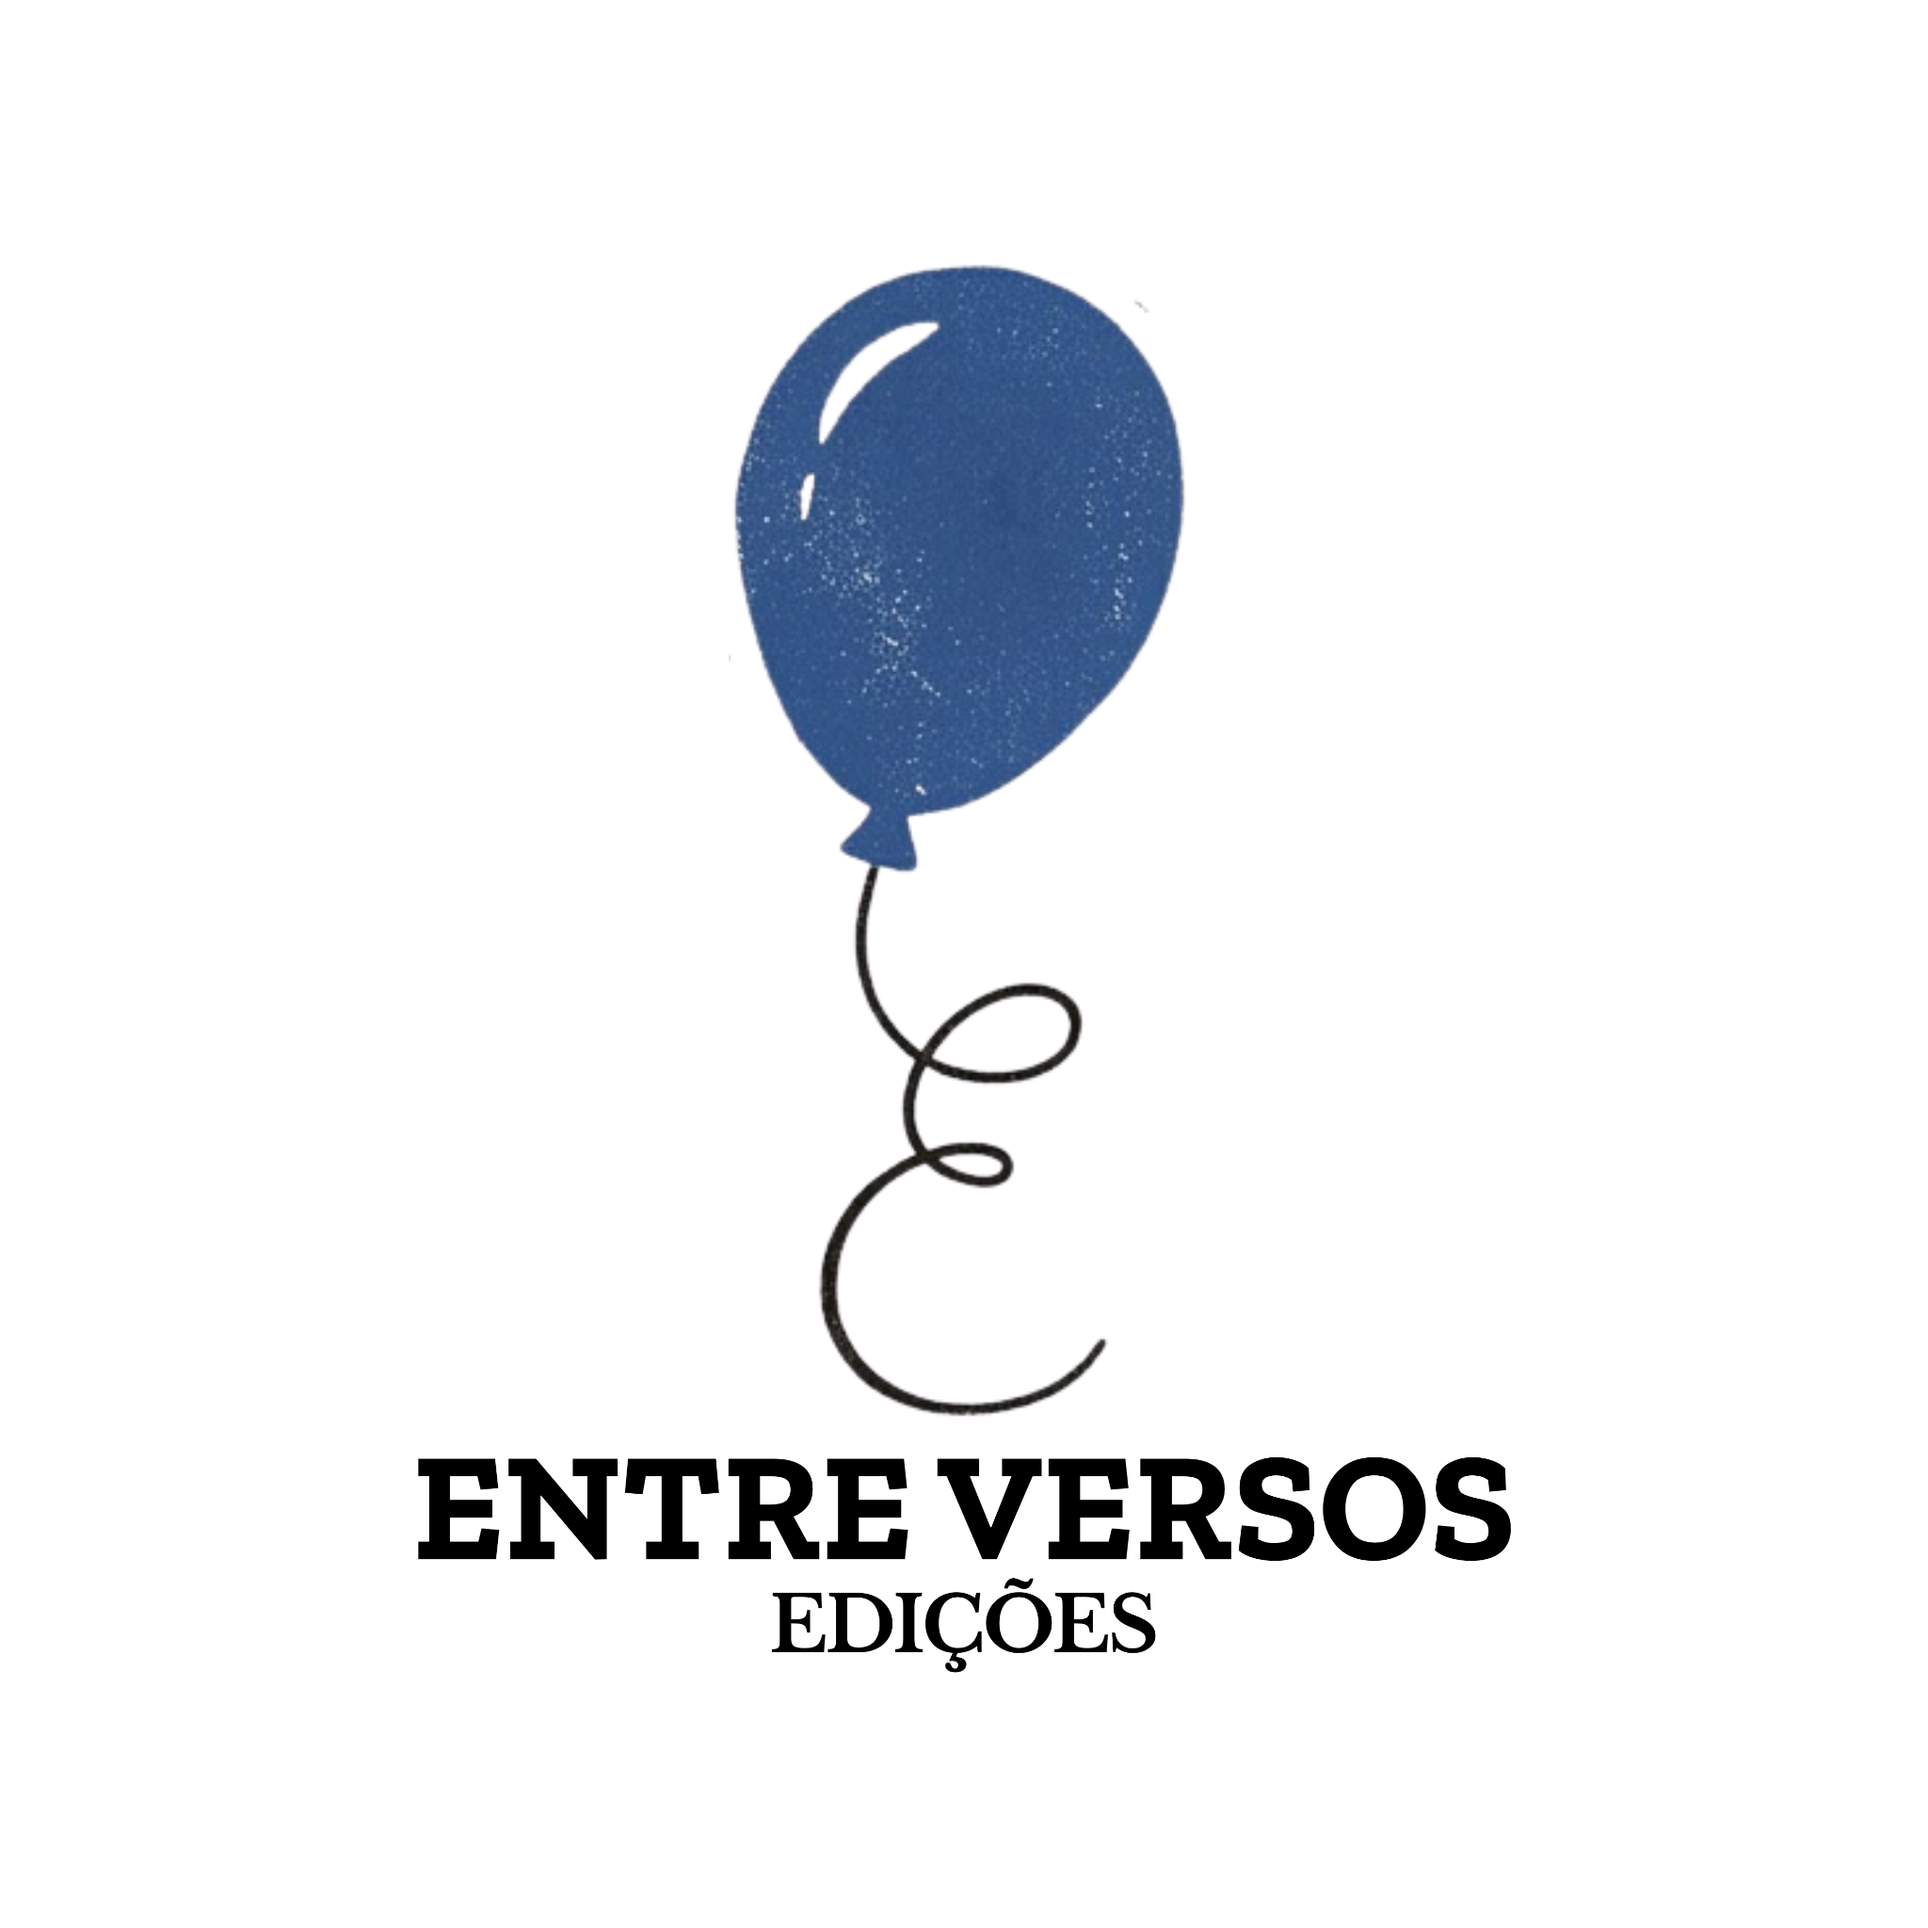
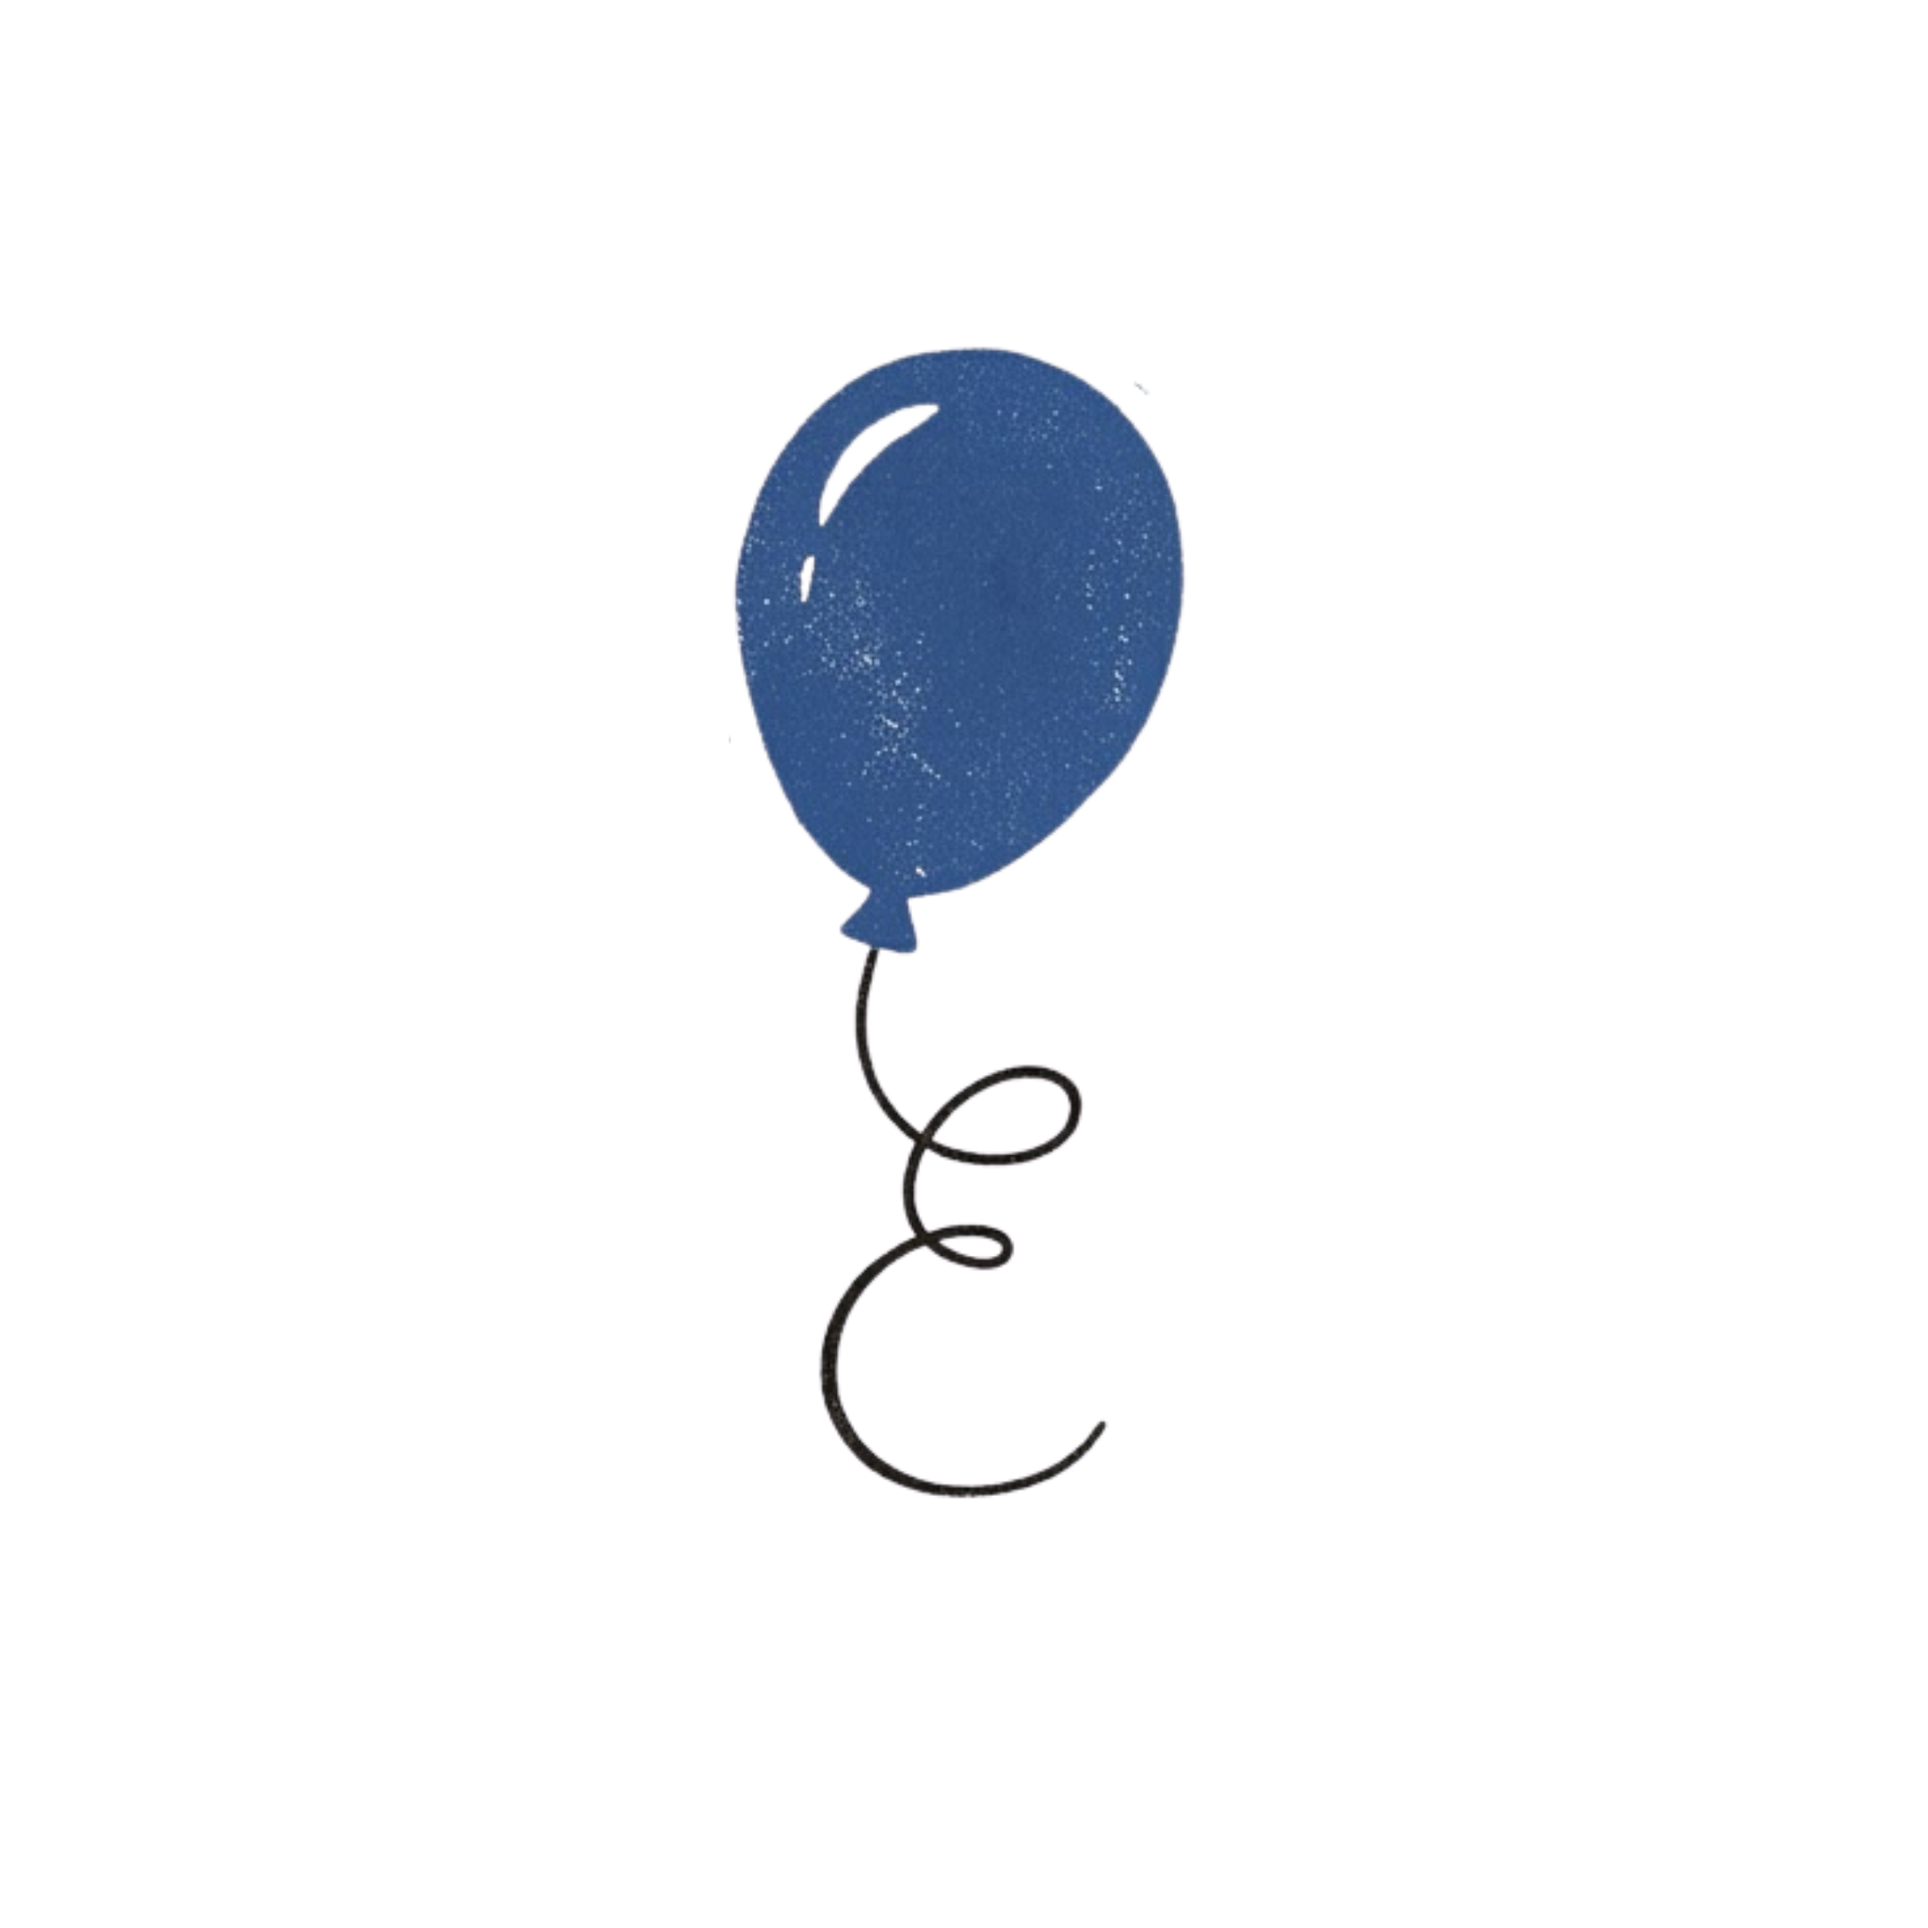
ultima5_8

Changed region(s): [[0.2188, 0.125, 0.7812, 0.875]]

diff --git a/index.html b/index.html
@@ -64,7 +64,6 @@
               “A literatura, como toda a arte, é uma confissão de que a vida não basta.”
             </p>
             <span class="quote-author">Fernando Pessoa</span>
-            <p class="story-intro">Tudo começou com um sonho e um balão azul.</p>
           </div>
         </div>
       </div>
@@ -155,29 +154,29 @@
           <p class="eyebrow">Nossa história</p>
           <h2>Tudo começou com um sonho e um balão azul</h2>
           <p>
-            Uma garotinha, por volta dos seis ou sete anos de idade, brincava
-            com um balão azul enquanto pensava sobre seu futuro. Seu sonho era
-            ser escritora, mas ela acreditava que isso fosse algo impossível.
-            Assim, chegou à conclusão de que, diante de sua realidade humilde e
-            de seu gosto pelos estudos, conseguiria ser professora.
+            Uma garotinha por volta dos 6/7 anos de idade brincava com um balão
+            azul enquanto pensava sobre seu futuro. Seu sonho era ser escritora,
+            mas achava que isso era algo impossível e assim, ela chegou à
+            conclusão que com sua realidade humilde e com seu gosto pelos
+            estudos, ela conseguiria ser professora.
           </p>
           <p>
-            Os anos se passaram. Ela enfrentou obstáculos, dedicou-se, mas a
-            literatura e a escrita permaneceram sempre presentes em sua vida.
-            Cresceu, tornou-se professora, escritora e também precisou começar
+            Os anos se passaram, ela enfrentou obstáculos, se dedicou, mas a
+            Literatura e a escrita estavam sempre presentes em sua vida. Ela
+            cresceu, se tornou professora, escritora e também teve que começar
             do zero.
           </p>
           <p>
-            Certo dia, já adulta, contou ao marido a história do balão azul.
-            Seus olhos transbordaram em lágrimas, não de tristeza, mas de
-            gratidão por ter conseguido chegar aonde um dia pensou que seria
-            impossível. Ele a acolheu, abraçou e disse que aquilo era apenas o
-            começo.
+            Em um certo dia, depois de adulta, em uma conversa com seu marido,
+            ela conta a história do balão azul para ele e seus olhos transbordam
+            em lágrimas, não com tristeza, mas com um sentimento de gratidão por
+            ter conseguido chegar onde pensava que seria impossível. Ele a
+            acolhe, abraça e diz que isso é apenas o começo.
           </p>
           <p>
-            Foi assim que surgiu a <strong>Entre Versos Edições</strong>: um
-            espaço de publicação independente para a escritora criança que
-            ainda habita em Roziele Mendes.
+            E dessa forma surge a <strong>Entre Versos Edições</strong>. Um
+            lugar para publicação independente da escritora criança que habita
+            em Roziele Mendes.
           </p>
         </div>
       </div>

diff --git a/assets/style.css b/assets/style.css
@@ -523,14 +523,20 @@ cite {
 }
 
 
-/* Atualização de agosto: balão, citação e história da editora */
+
+
+
+
+/* Ajuste do balão: usar apenas o símbolo, pequeno e discreto */
 .story-balloon {
-  width: 108px;
-  max-height: 150px;
-  margin: 0 auto 24px;
+  width: 34px;
+  height: auto;
+  margin: 0 auto 14px;
+  display: block;
   object-fit: contain;
+  opacity: 0.95;
   transform-origin: 50% 100%;
-  animation: balloon-arrival 1.15s cubic-bezier(.2, .75, .25, 1) both;
+  animation: balloon-arrival 0.9s cubic-bezier(.2, .75, .25, 1) both;
 }
 .quote-author {
   display: block;
@@ -541,27 +547,31 @@ cite {
   letter-spacing: .12em;
   text-transform: uppercase;
 }
-.story-intro {
-  margin: 28px 0 0;
-  padding-top: 22px;
-  border-top: 1px solid rgba(182, 183, 183, .72);
-  color: var(--brown);
-  font-family: "Zilla Slab", Georgia, serif;
-  font-size: 1.18rem;
-  font-weight: 700;
-  line-height: 1.35;
+.about-copy strong {
+  color: var(--blue);
 }
-.about-copy strong { color: var(--blue); }
 @keyframes balloon-arrival {
-  0% { opacity: 0; transform: translateY(18px) scale(.94) rotate(-2deg); }
-  65% { opacity: 1; transform: translateY(-3px) scale(1.01) rotate(.6deg); }
-  100% { opacity: 1; transform: translateY(0) scale(1) rotate(0); }
+  0% {
+    opacity: 0;
+    transform: translateY(8px) scale(.94);
+  }
+  100% {
+    opacity: .95;
+    transform: translateY(0) scale(1);
+  }
 }
 @media (prefers-reduced-motion: reduce) {
-  .story-balloon { animation: none; }
+  .story-balloon {
+    animation: none;
+  }
 }
 @media (max-width: 680px) {
-  .story-balloon { width: 92px; margin-bottom: 20px; }
-  .quote { font-size: 1.3rem; }
-  .story-intro { font-size: 1.08rem; }
+  .story-balloon {
+    width: 28px;
+    margin-bottom: 12px;
+  }
+  .quote {
+    font-size: 1.3rem;
+  }
+  
 }
